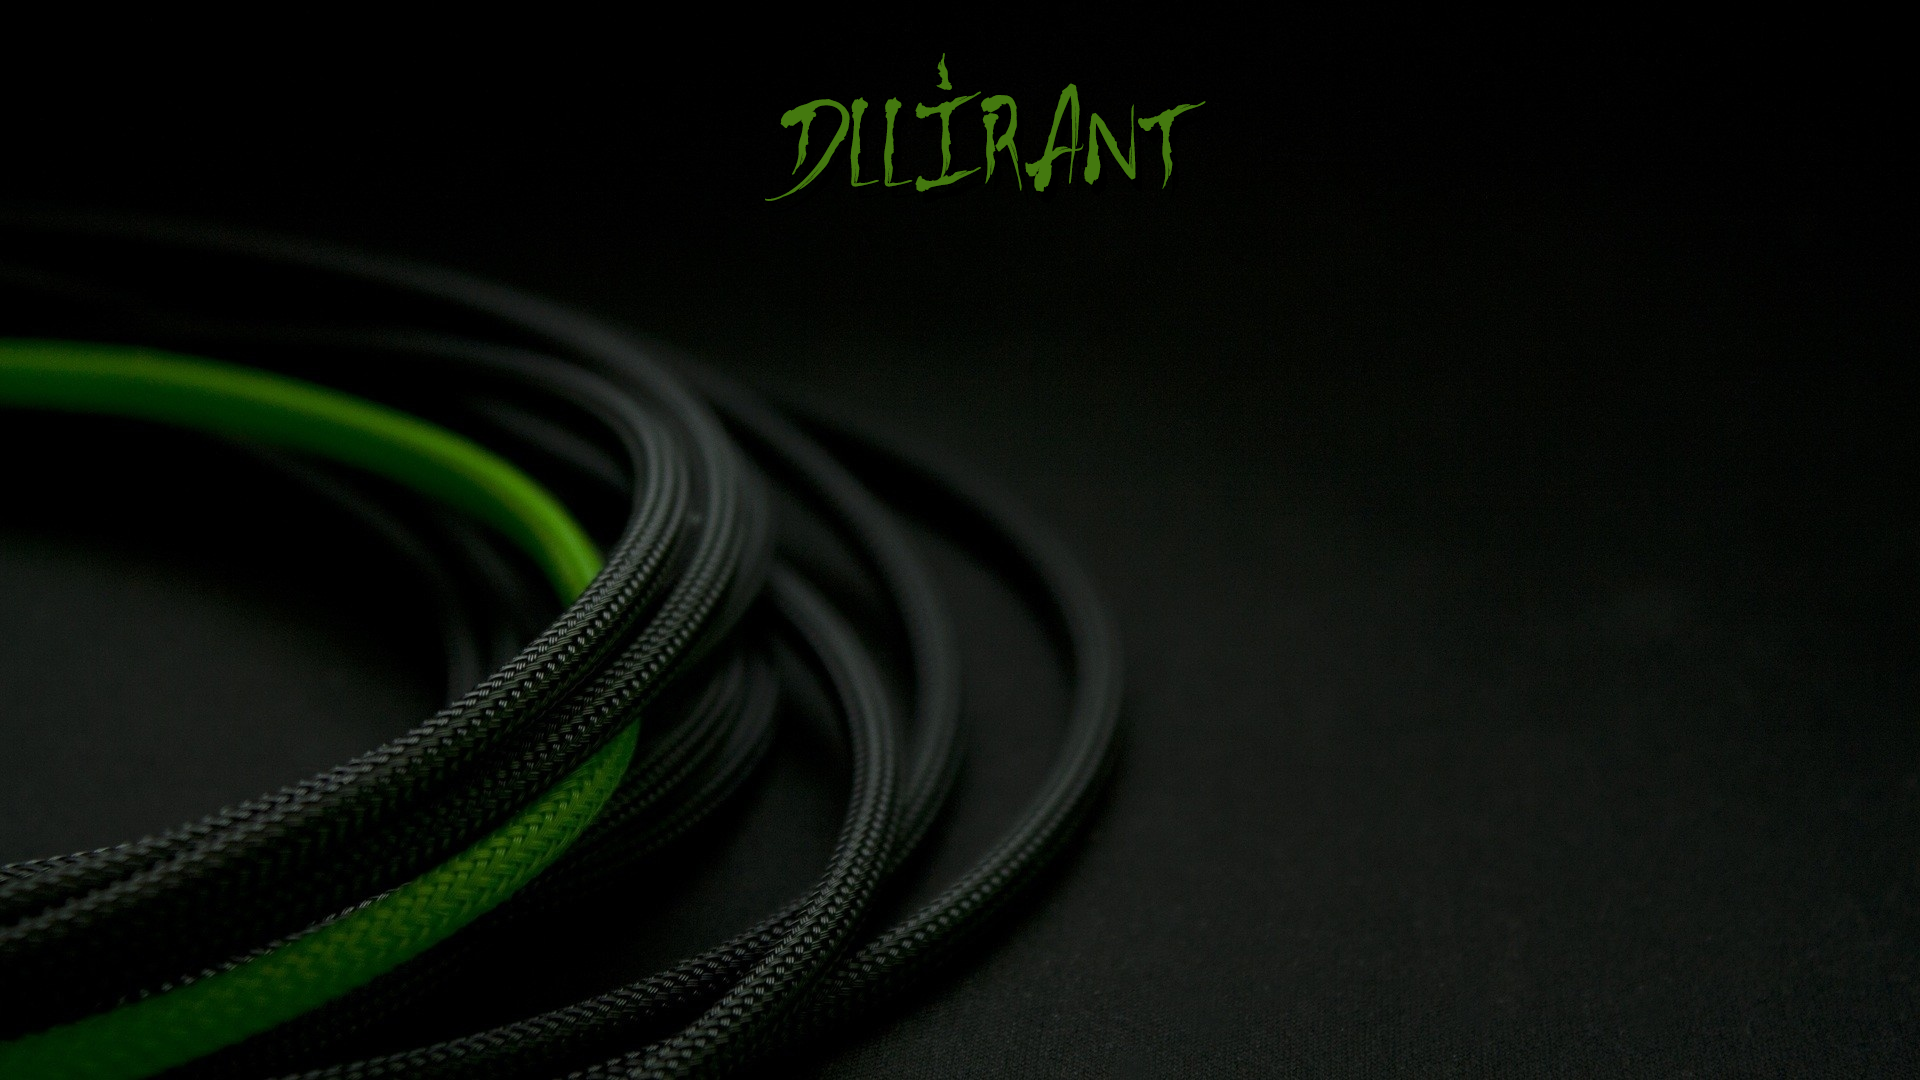
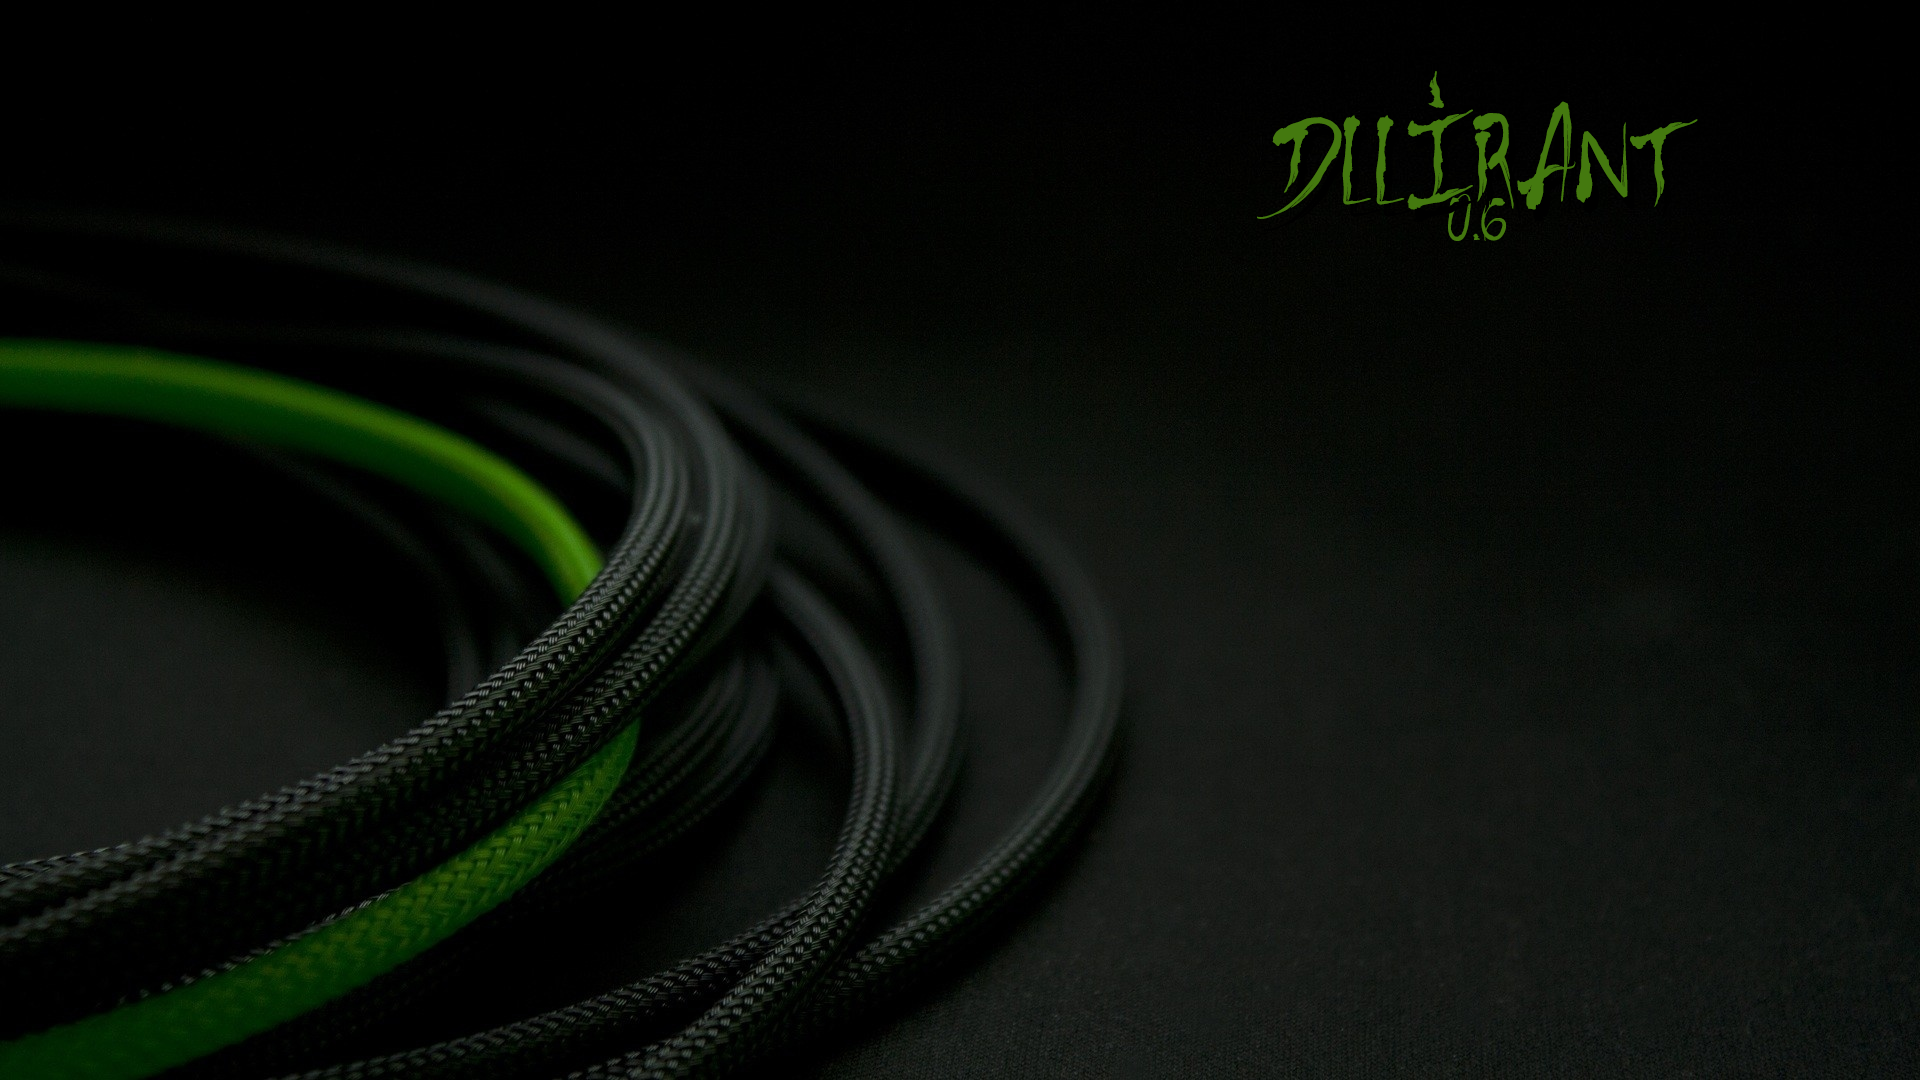
Fixed an issue with the excludes list and changed the background

Changed region(s): [[0.6562, 0.0917, 0.875, 0.2444], [0.4062, 0.0611, 0.625, 0.1833]]

diff --git a/DLLirant.NET/MainWindow.xaml b/DLLirant.NET/MainWindow.xaml
@@ -71,7 +71,7 @@
                     <RowDefinition Height="3.5*" />
                     <RowDefinition />
                 </Grid.RowDefinitions>
-                <ListBox x:Name="ListBoxExcludes" Grid.Row="0" ItemsSource="{Binding ExcludesDLLs}" HorizontalContentAlignment="Stretch" Background="Transparent" Foreground="White">
+                <ListBox x:Name="ListBoxExcludes" Grid.Row="0" ItemsSource="{Binding ExcludesDLLs}" HorizontalContentAlignment="Right" Background="Transparent" Foreground="White">
                     <ListBox.Resources>
                         <Style TargetType="{x:Type ListBoxItem}">
                             <Setter Property="Background" Value="Transparent" />

diff --git a/DLLirant.NET/MainWindow.xaml.cs b/DLLirant.NET/MainWindow.xaml.cs
@@ -125,7 +125,7 @@ namespace DLLirant.NET
 
         private void ButtonAddExclude_Click(object sender, RoutedEventArgs e)
         {
-            if (TextBoxExcludeAdd.Text.Length > 0 && data.ExcludesDLLs.Contains(TextBoxExcludeAdd.Text.ToLower()))
+            if (TextBoxExcludeAdd.Text.Length > 0 && !data.ExcludesDLLs.Contains(TextBoxExcludeAdd.Text.ToLower()))
             {
                 data.ExcludesDLLs.Add(TextBoxExcludeAdd.Text.ToLower());
             }
